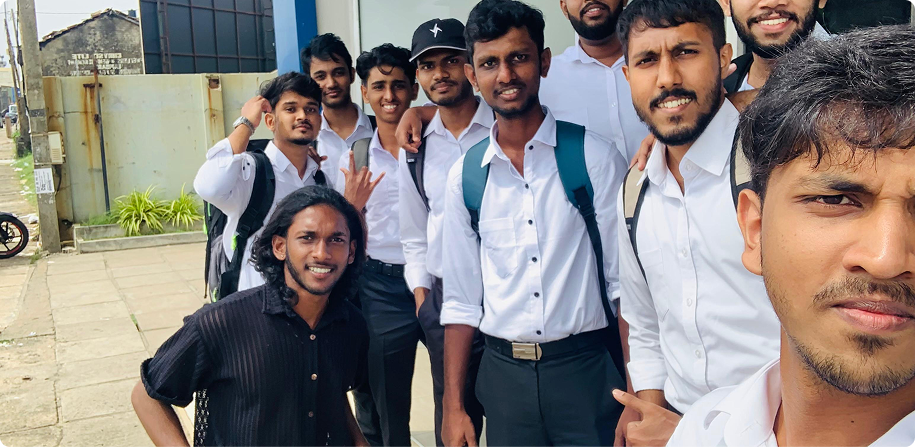
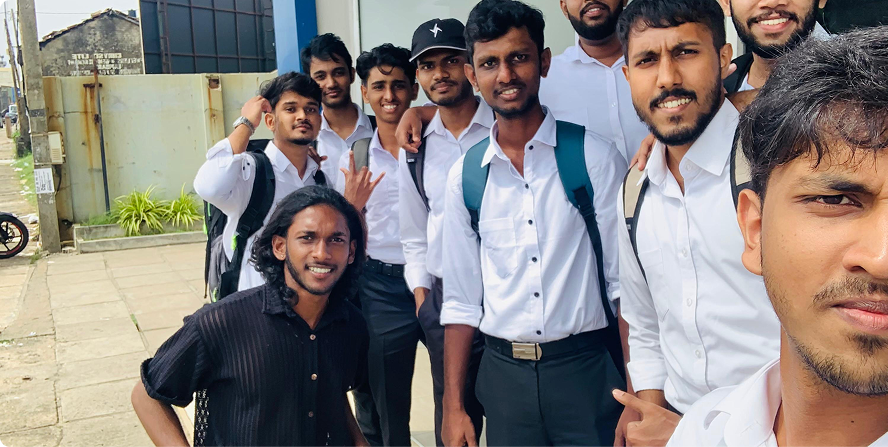
footer

diff --git a/index.html b/index.html
@@ -661,13 +661,14 @@
         <div class="container certificate-grid">
             <div class="certificate-image-border">
                 <div class="certificate-image">
-                <img src="assets/works/ceylonteapay.png" alt="">
+                    <img src="assets/works/ceylonteapay.png" alt="">
+                </div>
             </div>
-            </div>
-            
+
             <div class="certificate-content">
                 <h2 style="font-family: &quot;Anta&quot;, sans-serif;">Software Developer | NVQ Level 4 (2024)</h2>
-                <h3 style="font-family: &quot;ABeeZee&quot;, sans-serif;">I am a dedicated Software Developer with NVQ Level 4 certification completed in 2024. I have
+                <h3 style="font-family: &quot;ABeeZee&quot;, sans-serif;">I am a dedicated Software Developer with NVQ
+                    Level 4 certification completed in 2024. I have
                     hands-on experience in software development concepts, coding, and problem-solving. I am committed to
                     continuous learning and aim to build reliable, innovative, and user-focused software solutions while
                     growing professionally in the IT industry.</h3>
@@ -676,10 +677,11 @@
     </section>
 
     <!-- Contact me section -->
-     <section class="contact-me">
+    <section class="contact-me">
         <div class="title">
             <h1 style="font-family: &quot;Anta&quot;, sans-serif;">Contact me</h1>
-            <p style="font-family: &quot;ABeeZee&quot;, sans-serif;">eel free to reach out for collaborations, freelance work, or design opportunities.</p>
+            <p style="font-family: &quot;ABeeZee&quot;, sans-serif;">eel free to reach out for collaborations, freelance
+                work, or design opportunities.</p>
         </div>
 
         <div class="container contact-me-container">
@@ -691,13 +693,58 @@
             <div class="contact-me-inputs">
                 <input type="text" placeholder="Email">
                 <input type="text" placeholder="Service of interest">
-                <textarea name="" id=""s rows="10" placeholder="Project Details"></textarea>
+                <textarea name="" id="" s rows="10" placeholder="Project Details"></textarea>
                 <div class="contact-button-wrapper">
-                <button>Send</button>
+                    <button>Send</button>
                 </div>
             </div>
         </div>
-     </section>
+    </section>
+
+    <!-- Footer section -->
+    <section class="footer">
+        <div class="container footer-container">
+            <div class="footerlinks">
+                <ul>
+                    <a href="" style="font-family: &quot;ABeeZee&quot;, sans-serif;">
+                        <li>Home</li>
+                    </a>
+                    <a href="" style="font-family: &quot;ABeeZee&quot;, sans-serif;">
+                        <li>About me</li>
+                    </a>
+                    <a href="" style="font-family: &quot;ABeeZee&quot;, sans-serif;">
+                        <li>Portfolio</li>
+                    </a>
+                    <a href="" style="font-family: &quot;ABeeZee&quot;, sans-serif;">
+                        <li>Contact me</li>
+                    </a>
+                </ul>
+                <div class="social-icons">
+                    <div class="logo-circle">
+                        <img src="assets/chicken.png" alt="">
+                    </div>
+                    <div class="logo-circle">
+                        <img src="assets/chicken.png" alt="">
+                    </div>
+                    <div class="logo-circle">
+                        <img src="assets/chicken.png" alt="">
+                    </div>
+                </div>
+                <div class="contact-boxes">
+                    <div class="contact-box">
+                        <i class="fa-solid fa-phone" style="color: rgb(255, 162, 0);"></i>
+                        <span style="font-family: &quot;ABeeZee&quot;, sans-serif;">+94 77 123 4567</span>
+                    </div>
+                    <div class="contact-box">
+                        <i class="fa-solid fa-envelope" style="color: rgb(255, 162, 0);"></i>
+                        <span style="font-family: &quot;ABeeZee&quot;, sans-serif;">nadeeja.amaraweera@gmail.com</span>
+                    </div>
+                </div>
+                <hr>
+            </div>
+            <p>© 2026 Nadeeja Amaraweera. All rights reserved.</p>
+        </div>
+    </section>
 </body>
 
 </html>

diff --git a/css/style.css b/css/style.css
@@ -9,9 +9,7 @@ body {
 
 }
 
-section {
-    padding: 20px 0;
-}
+
 
 .container {
     width: 80%;
@@ -238,12 +236,17 @@ section {
 }
 
 .aboutmeImage {
-    width: 485px;
+    width: 490px;
+    border-radius: 25px;
+    overflow: hidden;
+    display: flex;
+    justify-content: center;
+    align-items: center;
+    box-shadow: rgba(0, 0, 0, 0.25) 0px 14px 28px, rgba(0, 0, 0, 0.22) 0px 10px 10px;
 }
 
 .aboutmeImage img {
     width: 100%;
-    border-radius: 50px;
 }
 
 .aboutmeDetails {
@@ -379,6 +382,17 @@ section {
     animation: workborder 4s ease infinite;
     position: relative;
     box-shadow: rgba(0, 0, 0, 0.19) 0px 10px 20px, rgba(0, 0, 0, 0.23) 0px 6px 6px;
+    transition: all 0.3s ease-in-out;
+}
+.work-item:hover{
+    animation: workborder 2s ease infinite;
+    background: linear-gradient(to bottom, #ff8000, #754000);
+    background-size: 100% 300%;
+    border-radius: 18px;
+    background-color: #252525;
+    box-shadow: rgba(0, 0, 0, 0.19) 0px 10px 20px, rgba(0, 0, 0, 0.23) 0px 8px 8px;
+    transform: translateY(-5px);
+    cursor: pointer;
 }
 .work-item-image {
     position: relative;
@@ -517,12 +531,24 @@ section {
     flex-direction: column;
     width: 225px;
     padding: 2px;
-    background: linear-gradient(to bottom, #984c00, #4d2a00);
+    background: linear-gradient(to bottom, #7d3f00, #4d2a00);
     background-size: 100% 300%;
-    animation: workborder 4s ease infinite;
     border-radius: 25px;
     background-color: #252525;
+    animation: workborder 4s ease infinite;
     box-shadow: rgba(0, 0, 0, 0.19) 0px 10px 20px, rgba(0, 0, 0, 0.23) 0px 6px 6px;
+    transition: all 0.3s ease-in-out;
+
+}
+.assignment-items:hover{
+    animation: workborder 2s ease infinite;
+    background: linear-gradient(to bottom, #ffd5ab, #ff8c00);
+    background-size: 100% 300%;
+    border-radius: 25px;
+    background-color: #252525;
+    box-shadow: rgba(0, 0, 0, 0.19) 0px 10px 20px, rgba(0, 0, 0, 0.23) 0px 8px 8px;
+    transform: translateY(-5px);
+    cursor: pointer;
 }
 .assignment-item{
     display: flex;
@@ -742,4 +768,64 @@ section {
   color: #fff;
     border: 2px solid #F66C01;
 
+}
+
+/* Footer */
+.footer-container{
+    display: flex;
+    flex-direction: column;
+    width: 100%;
+    justify-content: center;
+    background: linear-gradient(to right,#222222,#4a4a4a);
+    align-items: center;
+    margin-top: 40px;
+}
+.footer-container p{
+    color: #C7C7C7;
+    font-size: 14px;
+    font-family: Arial, Helvetica, sans-serif;
+    padding: 10px 0;
+}
+.footerlinks{
+    display: flex;
+    flex-direction: column;
+    align-items: center;
+    gap: 20px;
+    padding: 20px;
+}
+.footerlinks ul{
+    display: flex;
+    gap: 60px;
+    padding-top: 20px;
+    padding-bottom: 40px;
+}
+.footerlinks a{
+    color: #C7C7C7;
+    font-size: 15px;
+    text-decoration: none;
+    list-style: none;
+    transition: all 0.2s ease-in-out;
+}
+.footerlinks a:hover{
+    color: #F66C01;
+}
+.footerlinks .social-icons{
+    display: flex;
+}
+.footerlinks .social-icons .logo-circle{
+    box-shadow: none;
+}
+.contact-boxes{
+    display: flex;
+    flex-direction: row;
+    gap: 50px;
+}
+.contact-box{
+    display: flex;
+    align-items: center;
+    gap: 10px;
+    color: #C7C7C7;
+}
+.footerlinks hr{
+    width: 100%;
 }
